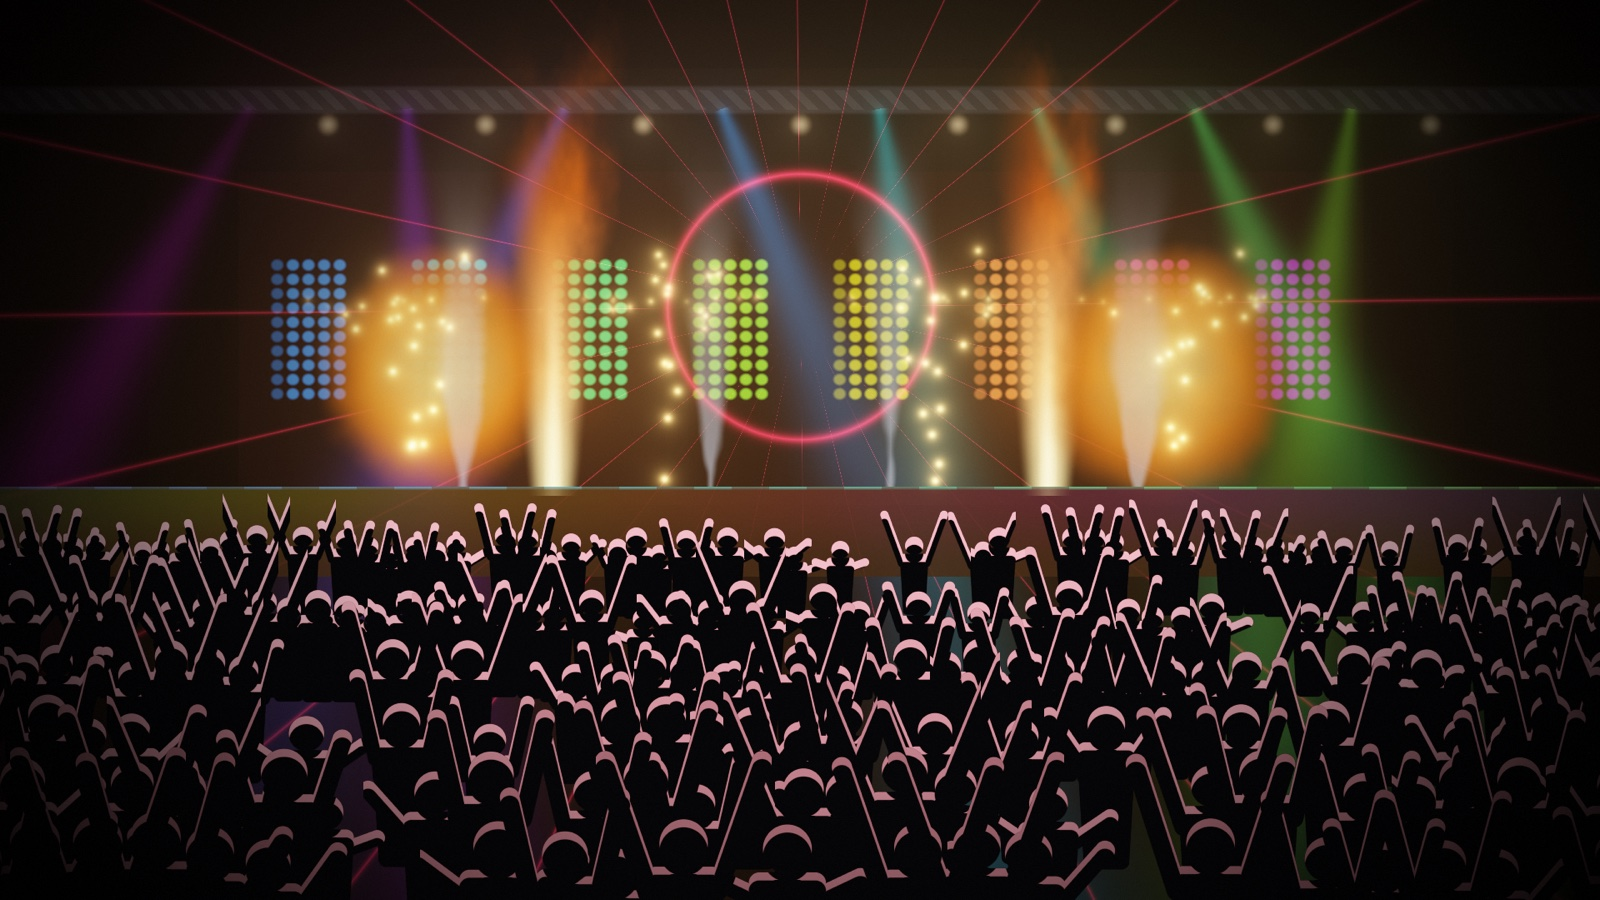
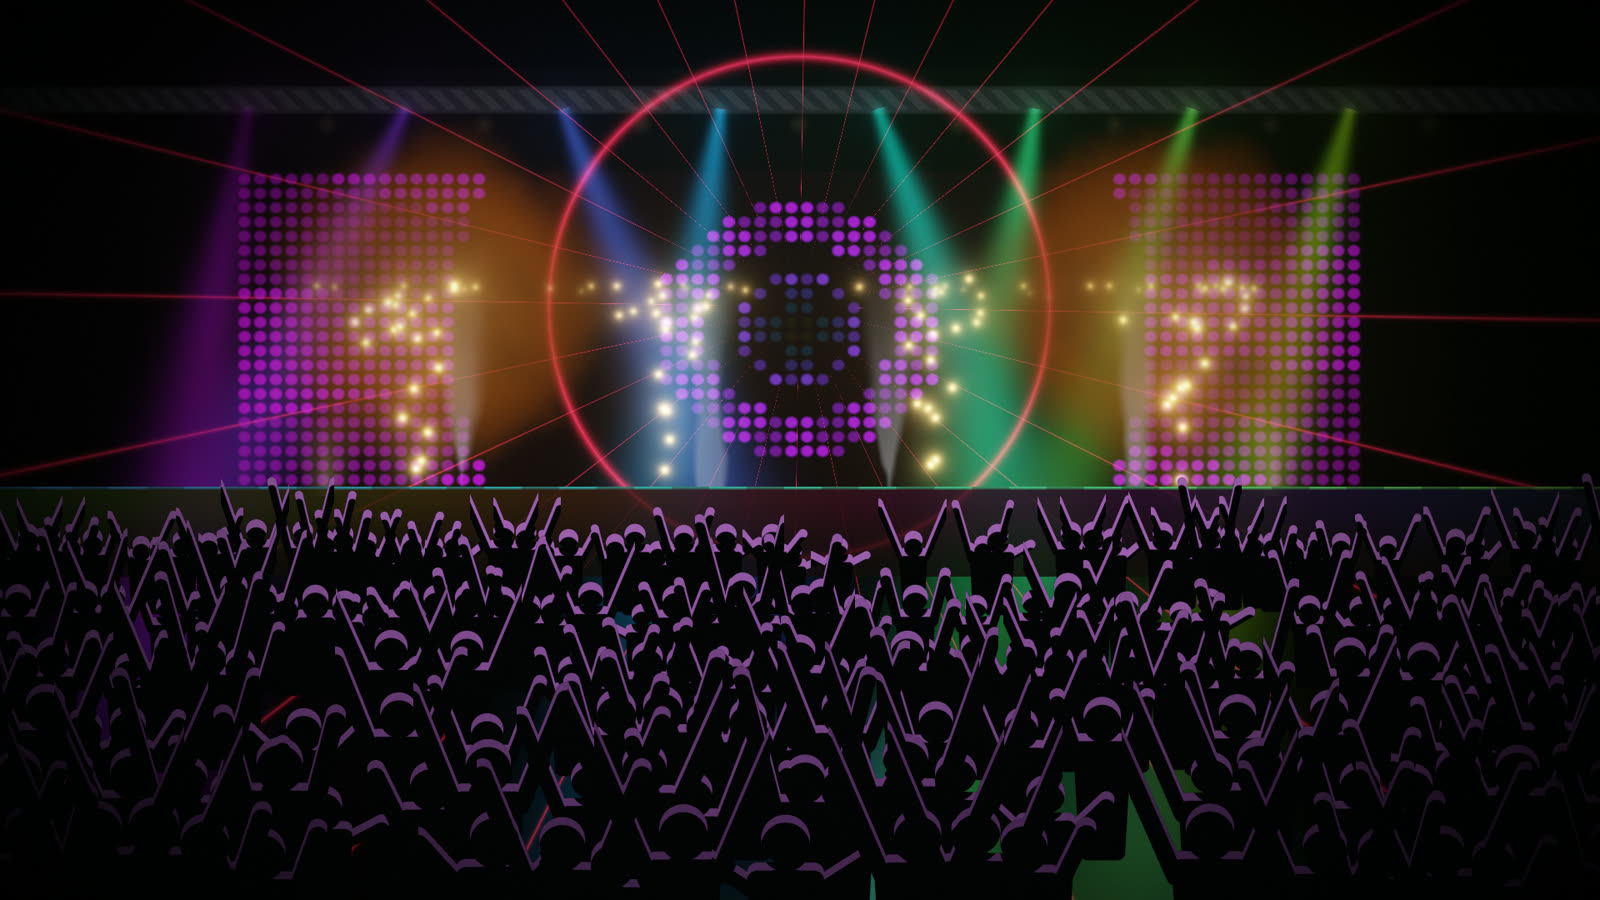
README: 0.6.0 marked as on main (not released), new lyrics/HUD/Settings shots, re-captured gallery from the 0.6.0 build, fresh perf numbers, full build steps

diff --git a/README.md b/README.md
@@ -32,7 +32,7 @@
   <sub>Every look in one reel: Stage, all 48 Classic Visuals presets, AURORA and six of the 149 built-in MilkDrop presets, about a second each. Frames captured by the app itself from its built-in synthetic 128 BPM signal, with name captions added afterwards.</sub>
 </p>
 
-> **Status: pre-release (0.5).** Expect rough edges. Issues and pull requests are welcome.
+> **Status: pre-release.** The latest download is **0.5.1**. **0.6.0** (synced lyrics, a Now Playing card and a performance and robustness pass) is finished and merged on `main` but **not released yet**: build from source to try it, or wait for the 0.6.0 download. Expect rough edges. Issues and pull requests are welcome.
 
 > **Platform: Mac only, Linux/Windows planned.** RAVE LIVE is written for macOS (Swift, Metal and Apple's audio capture), so it does not run on Linux or Windows yet. A cross-platform version is planned; there is no date. Follow along or help in the issues.
 
@@ -40,7 +40,7 @@
 
 <p align="center">
   <a href="https://github.com/jedbrnth-eng/rave-live/releases/latest/download/RAVE-LIVE.dmg"><img src="https://img.shields.io/badge/%E2%AC%87%20Download%20RAVE%20LIVE%20for%20Mac-Free-ff2d95?style=for-the-badge&logo=apple&logoColor=white" alt="Download RAVE LIVE for Mac, free" height="56"></a><br>
-  <sub>Free · Apple silicon and Intel · macOS 12+ · about 9 MB</sub>
+  <sub>Free · Apple silicon and Intel · macOS 12+ · about 8 MB · version 0.5.1</sub>
 </p>
 
 ## Download (no Terminal needed)
@@ -93,7 +93,7 @@ Play music in any app (Spotify, Apple Music, YouTube, Serato, a DJ controller on
 - **MIDI**: MIDI Learn (`⌘L`) for 14 targets (mode, preset, intensity, brightness, strobe, blackout, tap…), and MIDI clock sync.
 - **Control HUD** (`H`) and a **keyboard cheat sheet** (`?`) that never appear on Syphon or the output display.
 - **Settings** (`⌘,`): HUD on/off, startup mode and fullscreen, intensity, strobes, audio source, quality and visual sync offset, all remembered.
-- **Synced lyrics and a Now Playing card** for whatever your Mac is playing: the current lyric line large and low on screen, a small card with artwork and play/pause/next. Lyrics are off by default (they look the song up on [lrclib.net](https://lrclib.net)); remixes and edits never get wrongly timed lyrics. Main window only. Details in [docs/VJ.md](docs/VJ.md#lyrics-and-the-now-playing-card).
+- **Coming in 0.6.0 (on `main`, not in the 0.5.1 download yet): synced lyrics and a Now Playing card** for whatever your Mac is playing: the current lyric line large and low on screen, a small card with artwork and play/pause/next. Lyrics are off by default (they look the song up on [lrclib.net](https://lrclib.net)); remixes and edits never get wrongly timed lyrics. Main window only. Details in [docs/VJ.md](docs/VJ.md#lyrics-and-the-now-playing-card).
 - Details: [docs/VJ.md](docs/VJ.md). Writing shaders: [docs/SHADERS.md](docs/SHADERS.md). Sharing looks and shaders: [community/](community/README.md).
 
 <table>
@@ -109,7 +109,35 @@ Play music in any app (Spotify, Apple Music, YouTube, Serato, a DJ controller on
   </tr>
 </table>
 
-<sub>All images are unedited frames rendered by the app (version 0.4, demo track).</sub>
+<sub>All images are unedited frames rendered by the app itself (0.6.0 build from `main`, built-in 128 BPM demo signal, at the drop).</sub>
+
+### Coming in 0.6.0 (on `main`, not released yet)
+
+The 0.5.1 download doesn't have these yet. They are merged on `main` and will ship in the 0.6.0 release; until then, [build from source](#build-from-source) to try them.
+
+<p align="center">
+  <img src="docs/screenshots/lyrics-card.jpg" alt="Neon City with a synced lyric line large in the middle, the next line smaller below it, and the Now Playing card at the bottom left with artwork, title, artist, progress and play controls" width="860"><br>
+  <sub>Synced lyrics and the Now Playing card over Neon City. The song, artist and lyrics here are made up and served from a local test server; the card and the lyric timing are the app's own.</sub>
+</p>
+
+- **Synced lyrics** for whatever your Mac is playing (Spotify, Music, browsers, most players): the current line large and low on screen, the next line smaller below, a soft crossfade and a gentle breath on the beat (no flashing). **Off by default**, because turning them on sends the playing track's title, artist, album and length to [lrclib.net](https://lrclib.net). Remixes, edits, sped-up and slowed versions are never looked up, so you never get wrongly timed lyrics. `Y` toggles, `-` `=` nudge the timing.
+- **Now Playing card** (bottom left): artwork, title, artist, the app it's playing in, progress, and previous / play-pause / next buttons. It hides a few seconds after the mouse stops; `N` turns it off.
+- **New Settings rows** for lyrics on/off, lyrics size and timing, the player card, and what Now Playing currently sees.
+- **Smoother long sets and better recovery:** no more small stutter every 2 seconds late in a long set, system audio comes back on its own after sleep or a display change, Syphon keeps full frame rate while the window is covered, and the window appears at once on first launch.
+
+Full list: [CHANGELOG.md](CHANGELOG.md).
+
+### HUD and Settings (0.5.1)
+
+<p align="center">
+  <img src="docs/screenshots/hud-modes.jpg" alt="Three Stage frames side by side: with the status line, with the full Control HUD, and with the HUD off for a clean picture" width="860"><br>
+  <sub><code>H</code> cycles the HUD: status line → full Control HUD → off (clean picture, no mode bar). None of it is ever sent to Syphon or the output display.</sub>
+</p>
+
+<p align="center">
+  <img src="docs/screenshots/settings.png" alt="The Settings window: HUD, Open in, Intensity, Strobe effects, Audio, Quality, Visual sync, and the 0.6.0 Lyrics, Lyrics size, Lyrics timing and Player card rows" width="420"><br>
+  <sub>Settings (<code>⌘,</code>), shown from the 0.6.0 build. The Lyrics and Player card rows arrive with 0.6.0; everything above them is in 0.5.1.</sub>
+</p>
 
 ### New in 0.5
 
@@ -125,7 +153,7 @@ Play music in any app (Spotify, Apple Music, YouTube, Serato, a DJ controller on
 ### Every visual
 
 <details>
-<summary>Contact sheet of the 0.4 looks</summary>
+<summary>Contact sheet of every look (0.5)</summary>
 
 <p align="center">
   <img src="docs/visuals-grid.jpg" alt="Contact sheet of Stage, all 48 Classic Visuals presets, AURORA and six built-in MilkDrop presets, each labelled with its name" width="860">
@@ -155,9 +183,9 @@ Play music in any app (Spotify, Apple Music, YouTube, Serato, a DJ controller on
 | `⌘,` | Settings: HUD, startup mode, intensity, strobes, audio, quality, sync offset |
 | `?` | Keyboard cheat sheet |
 | `⌘L` | MIDI Learn |
-| `Y` | Synced lyrics on/off (looks the song up on lrclib.net) |
-| `N` | Now Playing card on/off |
-| `-` `=` | Lyrics 50 ms earlier / later |
+| `Y` | Synced lyrics on/off (looks the song up on lrclib.net) · 0.6.0, on `main` |
+| `N` | Now Playing card on/off · 0.6.0, on `main` |
+| `-` `=` | Lyrics 50 ms earlier / later · 0.6.0, on `main` |
 
 <p align="center">
   <img src="docs/screenshots/app-window.jpg" alt="The app window with the mode switcher at the top left and the live status bar at the bottom showing BPM, confidence, fps and latency" width="860">
@@ -170,7 +198,8 @@ system audio (ScreenCaptureKit) ─┐
 any input device (CoreAudio) ────┴─► LiveAnalyzer ─► TempoTracker ─► ShowDirector ─► Metal renderers
                                      FFT bands,       tempo, beat      phrases,        Stage · Classic
                                      onsets, kick/    phase, bar       build/drop      Visuals · AURORA
-                                     snare/hat        line             detection       + transitions
+                                     snare/hat        line             detection       · MILKDROP
+                                                                                       + transitions
                                                          ▲
                                      Beat This! referee ─┘ (optional Python sidecar)
 ```
@@ -182,17 +211,17 @@ any input device (CoreAudio) ────┴─► LiveAnalyzer ─► TempoTrac
 
 ## Performance
 
-Measured with the app's built-in metrics (`--metrics`) on an Apple M4 Max MacBook Pro (120 Hz built-in display), 1920×1080, using the synthetic 128 BPM demo track:
+Measured with the app's built-in metrics (`--metrics`) on an Apple M4 Max MacBook Pro, 1920×1080, built-in 128 BPM demo signal, 0.6.0 build from `main`, one mode at a time for 40 seconds. The window was on a 144 Hz external monitor, where the app targets 72 fps (the smallest whole divisor of the refresh rate that is at least 60, so frames are evenly paced):
 
-| Mode | Frame rate | GPU time p95 |
-|---|---|---|
-| Stage | 108 fps | 4.4 ms |
-| Classic Visuals (Neon City) | 107 fps | 3.9 ms |
-| Classic Visuals (Fireworks) | 121 fps | 2.5 ms |
-| Classic Visuals (Silk) | 108 fps | 3.8 ms |
-| AURORA | 120 fps | 6.2 ms |
+| Mode | Frame rate | Frame interval p95 | GPU time p95 |
+|---|---|---|---|
+| Stage | 72 fps (target) | 14.5 ms | 7.0 ms |
+| Classic Visuals (Neon City) | 72 fps (target) | 14.5 ms | 5.8 ms |
+| Classic Visuals (Fireworks) | 72 fps (target) | 14.5 ms | 1.7 ms |
+| Classic Visuals (Silk) | 72 fps (target) | 14.6 ms | 6.0 ms |
+| AURORA | 72 fps (target) | 14.6 ms | 7.9 ms |
 
-Frame rate is the last few seconds of a 40-second run, and the display caps it at 120. Draw-to-photon time was about 29–32 ms (p50). The strobe limiter never allowed more than 1 flash per second in these runs. These are demo-mode numbers on one high-end Mac; real music and slower Macs will differ.
+Every mode held its target with no dropped-frame spikes (frame interval p99 14.7 ms). Audio-to-screen latency was about 24 ms (p50) and 36 ms (p95) in the Stage run. The strobe limiter never allowed more than 1 flash per second. On the 120 Hz built-in display the app targets 120 fps instead. These are demo-mode numbers on one high-end Mac; real music and slower Macs will differ.
 
 ## Privacy and permissions
 
@@ -226,8 +255,12 @@ Optional extras, built from pinned sources into `vendor/` (gitignored) and bundl
 ```bash
 scripts/build_syphon.sh          # Syphon output (BSD-3-Clause)
 scripts/build_projectm.sh        # MILKDROP engine, libprojectM (LGPL-2.1)
-scripts/build_mediaremote_adapter.sh   # Now Playing reader for lyrics + player card (BSD-3-Clause, needs cmake)
+scripts/fetch_milkdrop_presets.sh     # the 149 built-in MilkDrop presets
+scripts/build_mediaremote_adapter.sh   # Now Playing reader for lyrics + player card (0.6.0, BSD-3-Clause, needs cmake)
+scripts/make_app.sh                    # run again to bundle them
 ```
+
+`make_app.sh` prints a `note: no vendor/...` line for each extra it can't find and still builds, so check its output if MILKDROP, Syphon or lyrics are missing.
 
 Try it with no music playing:
 
@@ -252,7 +285,7 @@ Rebuild the app and it finds `tools/.venv` and `tools/referee.py` in the folder 
 
 ## Testing
 
-- `swift test` runs the `RaveAudioTests` suite: tempo lock on six drum styles (house, drum and bass, boom bap, rock, metal, techno), fast re-lock after a tempo change, beats landing on kicks, silence, tap tempo, rhythmless audio (a past crash), and the referee's gate that rejects irregular beat reports.
+- `swift test` runs two suites. `RaveLiveAppTests` covers the app side: lyrics matching and the remix guard, the Now Playing reader's process lifecycle, saved settings, metrics cost over a long set, MilkDrop preset handling, the show director and smoothing. `RaveAudioTests` covers tempo lock on six drum styles (house, drum and bass, boom bap, rock, metal, techno), fast re-lock after a tempo change, beats landing on kicks, silence, tap tempo, rhythmless audio (a past crash), and the referee's gate that rejects irregular beat reports.
 - CI runs on every push and pull request: release build, tests, the synthetic-pattern probe, an ad-hoc-signed app bundle, and a check that no personal file paths are committed.
 - `.build/release/rave-probe synth` checks the tracker against deterministic drum patterns, and `rave-probe file <audio> <bpm>` against a real track.
 - `scripts/bench.py` benchmarks tempo lock time against BPM values you supply as a JSON list of `[path, bpm, genre]` (for example exported from a DJ library): `scripts/bench.py [clip_start_s] <tracks.json>`. No track list or per-track results ship with the repo. `tools/eval_sync.py` scores beat phase against Beat This! ground truth. Both need your own audio files; no music is stored in this repo.
@@ -265,7 +298,9 @@ Sources/
 ├── RaveAudio/      capture, analyzer, tempo tracker, Beat This! referee client, synth test signals
 ├── RaveLiveApp/    app, show director, Metal renderers and shaders, hand tracking
 └── RaveProbe/      rave-probe command-line harness
-Tests/RaveAudioTests/
+Tests/
+├── RaveAudioTests/     tempo tracking, MIDI clock, referee
+└── RaveLiveAppTests/   lyrics, Now Playing, settings, metrics, MilkDrop, show director
 scripts/            make_app.sh, bench.py, shader compile check, live sync test
 tools/              referee.py, ground-truth and sync-evaluation scripts
 ```
